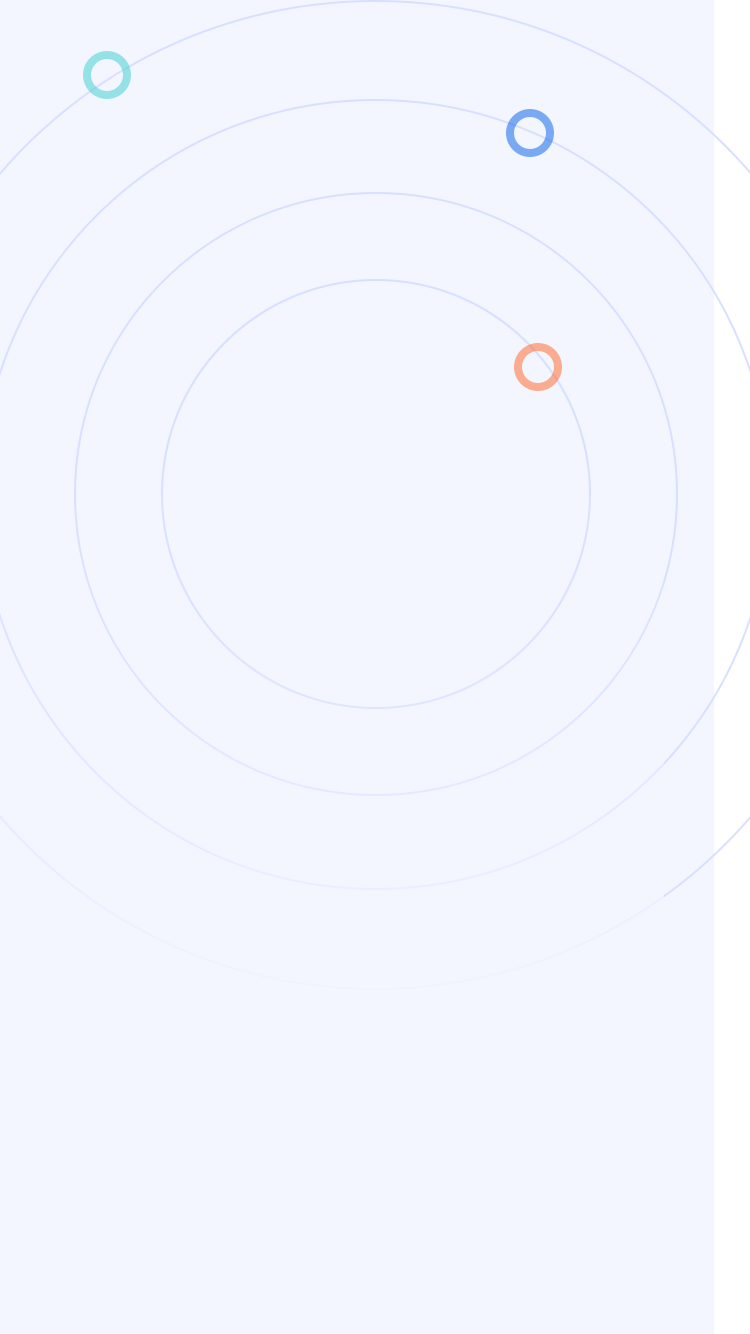
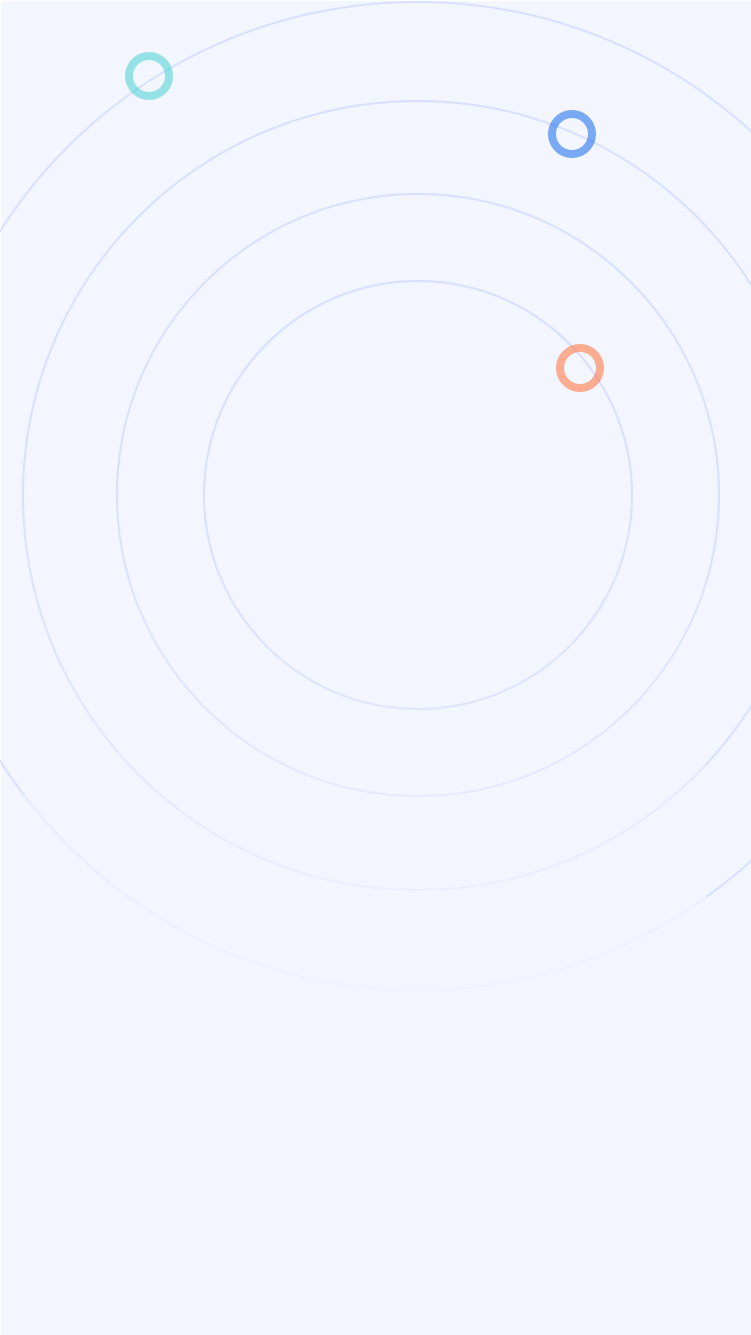
fix: 登录页背景图修改

Changed region(s): [[0.092, 0.0307, 0.2453, 0.0922], [0.6747, 0.2459, 0.7973, 0.3073], [0.6747, 0.0615, 0.7973, 0.1229]]

diff --git a/pages/login.vue b/pages/login.vue
@@ -1,7 +1,7 @@
 .<template>
-<div class="flex flex-row items-end justify-end w-screen h-screen">
-  <img src="~/assets/img/login/bj.png" class="absolute top-0 left-0 z-0 w-screen h-screen bg-cover sm:hidden">
-  <img src="~/assets/img/login/phonebj.png" class="absolute top-0 left-0 z-0 w-screen h-screen bg-cover lg:hidden">
+<div class="flex flex-row items-end justify-end w-screen h-screen lg:bg-login-bg sm:bg-login-phone bg-auto bg-fixed bg-no-repeat" style="background-size: 100%">
+  <!-- <img src="~/assets/img/login/bj.png" class="absolute top-0 left-0 z-0 w-screen h-screen bg-cover sm:hidden"> -->
+  <!-- <img src="~/assets/img/login/phonebj.png" class="absolute top-0 left-0 z-0 w-screen h-screen bg-cover lg:hidden"> -->
   <div class="relative w-full h-full mx-auto lg:container">
   
   <div class="lg:hidden sm:mt-[60px]">
@@ -26,10 +26,10 @@
           <div><input v-model="mobile" type="text"  class="text-[20px] text-[#666666]" @change="mobileChange"></div>
         </div>
         <div class="w-full lg:mt-[50px] sm:mt-8 sm:pb-2 lg:pb-4 flex flex-row items-center justify-between sm:space-x-2 border-b border-b-[#DDDDDD]">
-          <div><img src="~/assets/img/login/code.png" alt="" class="w-6 h-7"></div>
+          <div class="flex-shrink-0"><img src="~/assets/img/login/code.png" alt="" class="w-6 h-7"></div>
           <div class="ml-4"><input v-model="phoneCode" type="text" class="text-[20px] text-[#666666]"></div>
           <div class="">
-            <button v-if="isTime" class="text-[#999999] text-[18px] sm:text-16px" >{{ msg }}</button>
+            <button v-if="isTime" class="text-[#999999] text-[18px] sm:text-16px lg:w-[90px] sm:w-[80px]" >{{ msg }}</button>
             <button v-else :disabled="!isTrue" class="text-[18px] sm:text-[16px] font-normal" :class="isTrue ? 'text-[#015EEA]' : 'text-[#999999]' " @click="post">获取验证码</button>
           </div>
         </div>
@@ -87,6 +87,7 @@
   </div>
       
   </div>
+  <AppLoading ref="loading" :box-class="'w-full h-full rounded-xl'" :height="'32px'" :width="'6px'"  />
 </div>
   
 </template>
@@ -158,7 +159,7 @@ export default Vue.extend({
     async clickLogin() {
       try {
         
-      
+      this.$nuxt.$loading.start()
       if (this.password && this.LoginParams.username && this.LoginParams.code) {
         this.LoginParams.password = this.password;
         this.LoginParams.key = this.codeResult.data.key;
@@ -201,6 +202,7 @@ export default Vue.extend({
             await store.commit('app/UserName', userInfo.userName)
             await store.commit('app/Avatar', userInfo.avatar)
             await store.commit('app/NickName', userInfo.nickName)
+            await store.commit('app/Gender', userInfo.gender)
             if (this.checked) {
               Cookies.set('UserName', userInfo.username, { expires: 7, })
               Cookies.set('Gender', userInfo.gender, { expires: 7, })
@@ -240,9 +242,10 @@ export default Vue.extend({
         message.error({ content: '请正确填写信息', duration: 3});
       }
       } catch (error) {
-        
+        message.error({ content: '登录失败， 请重试', duration: 3});
       } finally {
         this.$axios.setHeader('Authorization', '')
+        this.$nuxt.$loading.finish()
       }
     },
     async clickImg() {
@@ -286,7 +289,7 @@ export default Vue.extend({
     async mobileLogin() {
       try {
         
-      
+      this.$nuxt.$loading.start()
       if (this.isTrue && this.phoneCode) {
       
         const mobile = this.mobile;
@@ -332,6 +335,7 @@ export default Vue.extend({
             await store.commit('app/UserName', userInfo.userName)
             await store.commit('app/Avatar', userInfo.avatar)
             await store.commit('app/NickName', userInfo.nickName)
+            await store.commit('app/Gender', userInfo.gender)
             if (this.checked) {
               Cookies.set('UserName', userInfo.username, { expires: 7, })
               Cookies.set('Gender', userInfo.gender, { expires: 7, })
@@ -371,9 +375,10 @@ export default Vue.extend({
       }
 
       } catch (error) {
-        
+         message.error({ content: '登录失败，请重试', duration: 3});
       } finally {
         this.$axios.setHeader('Authorization', '')
+        this.$nuxt.$loading.finish()
       }
     },
     mobileChange() {

diff --git a/tailwind.config.js b/tailwind.config.js
@@ -38,6 +38,7 @@ module.exports = {
     fontFamily: {},
     extend: {
       backgroundImage: _theme => ({
+        'login-phone': "url('~/assets/img/login/phonebj.png')",
         'login-bg': "url('~/assets/img/login/bj.png')",
         'login-right': "url('~/assets/img/login/right.png')",
         'people': "url('~/assets/img/clue/people.png')",
